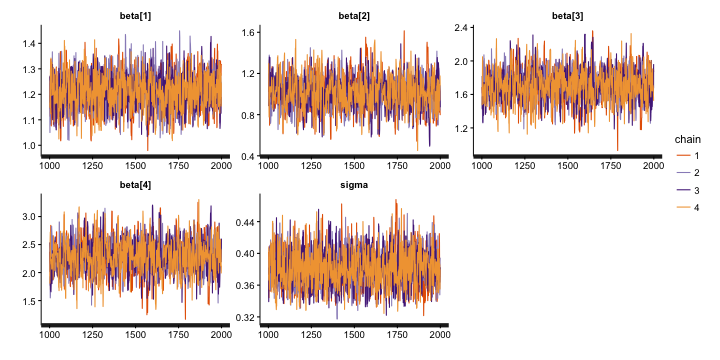
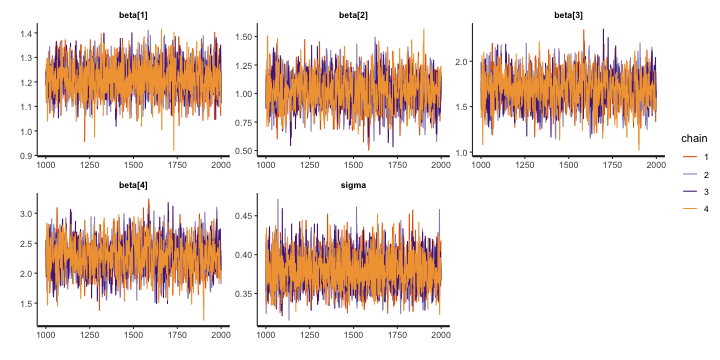
add notes on rstanarm, weakly informative priors

diff --git a/_posts/2016-03-19-Bayesian-Modeling.md b/_posts/2016-03-19-Bayesian-Modeling.md
@@ -11,6 +11,8 @@ tags: Regression
 
 
 
+Bayesian regression allows users to incorporate prior information and gives better uncertainty estimates over REML random effects modeling.
+
 # Bayesian Regression
 
 Recall that Bayes Theorem:
@@ -68,10 +70,13 @@ In general, priors on all parameters and hyperparameters in the model.
 
 When setting the parameters of prior distributions, take care to consider the scale of the data and set parameters to be in the appropriate range. 
 
-## Noninformative Uniform Priors
-Noninformative priors are intended to allow Bayesian inference for parameters about which not much is known beyond the data included in the analysis at hand. These noninformative uniform priors cover a wide range of values and places no structure on the parameters. For example, in classical regression can be seen as having the following priors $$\beta \sim Unif(-\infty, \infty)$$ and $$\sigma^2 \sim Unif(0, \infty)$$. 
+## Weakly Informative Priors
 
-For a prior distribution to be noninformative, the range of uncertainty should be wider than the range of reasonable values of the parameters. For example, a Gaussian prior with large variances may be used for the $$\beta$$ coefficients, since these values are tend to be biased towards $$0$$. Another option could be to use an gamma distribution for values biased towards $$0$$ but are strictly negative. 
+Noninformative uniform priors cover a wide range of values and places no structure on the parameters. For example, in classical regression can be seen as having the following priors $$\beta \sim Unif(-\infty, \infty)$$ and $$\sigma^2 \sim Unif(0, \infty)$$. However, noninformative priors are  unrealistic.
+
+Weakly informative priors provide moderate regularization and helps stabilize computation. These priors avoid placing unwarranted prior weight on nonsensical parameter values and provide some regularization to avoid overfitting, but also do allow for extreme values if warranted by the data. 
+
+For example, a Gaussian prior with large variances may be used for the $$\beta$$ coefficients, since these values are tend to be biased towards $$0$$. Another option could be to use an gamma distribution for values biased towards $$0$$ but are strictly negative. 
 
 Below are potential options for priors and good scenarios to use them:
 
@@ -80,7 +85,7 @@ Below are potential options for priors and good scenarios to use them:
 * Beta: values $$[0, 1]$$, parameters allow for flexibility
 * Wishart: distribution over all positive semi-definite matrices, like covariance matrices
 
-Models should be assessed after fitting with uninformative priors. If the posterior distribution does not make sense, this implies that additional prior information should be included from external knowledge.
+Variables should be standardized prior to fitting to stabilize computation. Models should be assessed after fitting. If the posterior distribution does not make sense, this implies that additional prior information should be included from external knowledge.
 
 ## Empirical Bayes
 
@@ -108,8 +113,49 @@ For example rather than setting the priors to $$\beta \sim N(0, 100)$$, set them
 
 ## rstanarm
 
-Bayesian modeling can be done in R with the same modeling syntax as R with the package `rstanarm`. See the [tutorial][rstanarm_link]{:target = "_blank"}
-tutorial for more information. 
+Bayesian modeling can be done in R with the same modeling syntax as R with the package `rstanarm`. 
+
+
+{% highlight r %}
+library(rstanarm)
+
+# fit model
+mod <- stan_lmer(y ~ x + (1 | grp), data = mod, iter, chain, warmup, refresh)
+
+# model summary
+prior_summary(mod)
+summary(mod, pars, regex_pars, probs, digits)
+
+# plot model; multiple plotting options available
+plot(mod)
+
+# posterior sample; can do additional estimates 
+as.data.frame(mod) 
+
+# posterior credible intervals
+posterior_interval(mod, pars, prob)
+
+# prediction
+posterior_predict(mod)
+
+# posterior predictive checks; multiple plotting options available
+pp_check(mod)
+
+# compare models
+compare_models(m1, m2, m3)
+
+# model fit from stan
+mod_stan <- mod$stanfit
+
+# assess convergence: converging obs with each chain
+purrr::map(1:nchains, get_sampler_params(mod_stan, inc_warmup = FALSE), ~ .x[,'divergent__'])
+{% endhighlight %}
+
+The following links have tutorials to the package
+
+* [LMM tutorial][rstanarm_link]{:target = "_blank"}
+* [rstanarm vignettes][rstanarm_vignettes]{:target = "_blank"}
+* [divergence][divergence_link]{:target = "_blank"}
 
 ## stan
 
@@ -549,7 +595,7 @@ The gist of the algorithm is this. Several Markov chains are run in parallel. Ea
 Obtain diagnostics of the MCMC convergence from the stan models.
 
 
-<img src="/nhuyhoa/figure/source/2016-03-19-Bayesian-Modeling/unnamed-chunk-15-1.png" title="plot of chunk unnamed-chunk-15" alt="plot of chunk unnamed-chunk-15" style="display: block; margin: auto;" />
+<img src="/nhuyhoa/figure/source/2016-03-19-Bayesian-Modeling/unnamed-chunk-16-1.png" title="plot of chunk unnamed-chunk-16" alt="plot of chunk unnamed-chunk-16" style="display: block; margin: auto;" />
 
 The plot above indicates that the four chains have converged well despite starting from different random points. 
 
@@ -560,12 +606,12 @@ Examine traceplots for chains that do not seem to mix in well with others. This 
 ## Inference for the input samples (4 chains: each with iter=1000; warmup=0):
 ## 
 ##         mean se_mean  sd 2.5%  25%  50%  75% 97.5% n_eff Rhat
-## beta[1]  1.2       0 0.1  1.1  1.2  1.2  1.3   1.3  2201    1
-## beta[2]  1.0       0 0.2  0.7  0.9  1.0  1.1   1.3  1195    1
-## beta[3]  1.7       0 0.2  1.3  1.6  1.7  1.8   2.0  1306    1
-## beta[4]  2.3       0 0.3  1.7  2.1  2.3  2.5   2.8  1239    1
-## sigma    0.4       0 0.0  0.3  0.4  0.4  0.4   0.4  2619    1
-## lp__    69.5       0 1.6 65.5 68.7 69.8 70.7  71.6  1547    1
+## beta[1]  1.2       0 0.1  1.1  1.2  1.2  1.3   1.3  2192    1
+## beta[2]  1.0       0 0.1  0.7  0.9  1.0  1.1   1.3  1333    1
+## beta[3]  1.7       0 0.2  1.3  1.6  1.7  1.8   2.0  1426    1
+## beta[4]  2.3       0 0.3  1.7  2.1  2.3  2.5   2.8  1357    1
+## sigma    0.4       0 0.0  0.3  0.4  0.4  0.4   0.4  2770    1
+## lp__    69.6       0 1.6 65.7 68.7 69.9 70.8  71.6  1438    1
 ## 
 ## For each parameter, n_eff is a crude measure of effective sample size,
 ## and Rhat is the potential scale reduction factor on split chains (at 
@@ -593,3 +639,5 @@ Compare models with
 
 
 [rstanarm_link]: https://mc-stan.org/users/documentation/case-studies/tutorial_rstanarm.html
+[rstanarm_vignettes]: http://mc-stan.org/rstanarm/articles/
+[divergence_link]: https://mc-stan.org/users/documentation/case-studies/divergences_and_bias.html
